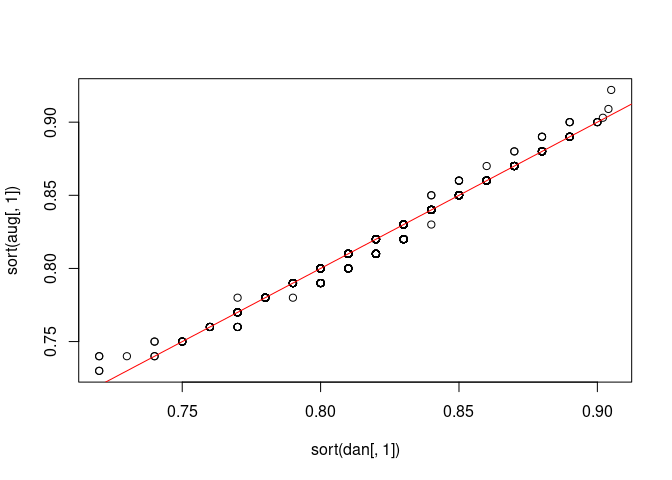
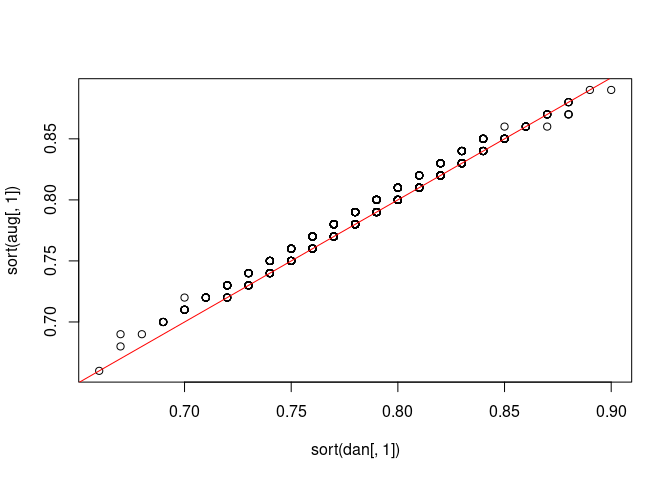
maj compare.Rmd

diff --git a/compare.md b/compare.md
@@ -51,9 +51,9 @@ system.time(plyr::r_ply(100,draw_conditional_posterior_R2_q(m,Y,U,X,sigma2,phi,b
 ```
 
     FALSE            Daniel Augustin
-    FALSE user.self   1.198   20.450
-    FALSE sys.self    0.031    0.000
-    FALSE elapsed     1.230   20.451
+    FALSE user.self   1.211   19.684
+    FALSE sys.self    0.072    0.024
+    FALSE elapsed     1.283   19.711
     FALSE user.child  0.000    0.000
     FALSE sys.child   0.000    0.000
 
@@ -111,15 +111,15 @@ cbind(q=q,r2=r2,Daniel=loglikelihood_r2_q_cond_y_u_x_theta_z_a_b_aa_bb(r2,q,sigm
   summary(alllogprobs$Daniel[alllogprobs$Augustin==-Inf])
 ```
 
-    FALSE       Min.    1st Qu.     Median       Mean    3rd Qu.       Max. 
-    FALSE -1757327.2    -2236.4    -1253.0   -19964.0     -906.3     -712.3
+    FALSE      Min.   1st Qu.    Median      Mean   3rd Qu.      Max. 
+    FALSE -675986.2   -2800.8   -1571.0  -12814.7   -1067.0    -722.7
 
 ``` r
   summary(alllogprobs$Daniel[alllogprobs$Augustin!=-Inf])
 ```
 
     FALSE    Min. 1st Qu.  Median    Mean 3rd Qu.    Max. 
-    FALSE  -708.6  -321.4  -226.8  -276.5  -182.2  -152.1
+    FALSE  -702.7  -280.2  -207.3  -246.9  -171.2  -146.0
 
 ``` r
     alllogprobs|>
@@ -166,9 +166,9 @@ dan=sample_zi_cond_zj_y_u_x_phi_gamma(z,i=1,tilde_y,ttildeytildey,xx,q,tt,k,gamm
 mean(aug);mean(dan)
 ```
 
-    FALSE [1] 0.305
+    FALSE [1] 0.496
 
-    FALSE [1] 0.296
+    FALSE [1] 0.468
 
 ``` r
 cbind("Daniel"=
@@ -178,9 +178,9 @@ system.time(plyr::r_ply(100,sample_conditional_posterior_zi(Y,U,X,sigma2,phi,gam
 ```
 
     FALSE            Daniel Augustin
-    FALSE user.self   0.213    0.251
+    FALSE user.self   0.205    0.243
     FALSE sys.self    0.000    0.000
-    FALSE elapsed     0.214    0.251
+    FALSE elapsed     0.205    0.244
     FALSE user.child  0.000    0.000
     FALSE sys.child   0.000    0.000
 
@@ -236,9 +236,9 @@ system.time(plyr::r_ply(100,sample_conditional_posterior_z(Y,U,X,phi,R2,q,z))))
 ```
 
     FALSE            Daniel Augustin
-    FALSE user.self  12.681   16.000
-    FALSE sys.self    0.000    0.000
-    FALSE elapsed    12.681   16.001
+    FALSE user.self  11.555   15.636
+    FALSE sys.self    0.000    0.004
+    FALSE elapsed    11.554   15.640
     FALSE user.child  0.000    0.000
     FALSE sys.child   0.000    0.000
 
@@ -331,9 +331,9 @@ system.time(plyr::r_ply(100,sample_conditional_posterior_sigma2(Y,U,X,phi,R2, q,
 ```
 
     FALSE            Daniel Augustin
-    FALSE user.self   0.009    0.277
+    FALSE user.self   0.008    0.264
     FALSE sys.self    0.000    0.000
-    FALSE elapsed     0.009    0.276
+    FALSE elapsed     0.009    0.264
     FALSE user.child  0.000    0.000
     FALSE sys.child   0.000    0.000
 
@@ -441,3 +441,58 @@ plot(aug[,1]|>sort(),dan[,1]|>sort());abline(0,1,col='red')
 ![](compare_files/figure-gfm/unnamed-chunk-7-2.png)<!-- -->
 
 ### Test gibbs one step.
+
+``` r
+init_A<-init_betasigma2(X = xx,Y = y)
+init_D<-initial_values_f(y = y,x = xx)
+
+plot(init_A$beta,init_D$beta);abline(0,1,col="red")
+```
+
+![](compare_files/figure-gfm/unnamed-chunk-8-1.png)<!-- -->
+
+``` r
+init_A$sigma2
+```
+
+    FALSE [1] 30.91767
+
+``` r
+init_D$sigma_epsilon^2
+```
+
+    FALSE [1] 29.57529
+
+``` r
+system.time({Daniel<-
+Gibbs_q(x = xx,
+        y = y,
+        u = u,
+        barvx = barvx,
+        tt = tt,k = k,phi = phi,r2_q_grid = r2_q_grid,a=a,
+        b=b,
+        aa=aa,
+        bb=bb,
+        nrep=100,
+        burning=0)|>sort()})
+```
+
+    FALSE    user  system elapsed 
+    FALSE   6.158   0.080   6.239
+
+``` r
+system.time({Augustin<-Gibbs(N=100,a=a,A=aa,b=b,B=bb,k=k,U=0,phi=0,X=xx,Y=y)$q|>sort()})
+```
+
+    FALSE [1] 50
+    FALSE [1] 100
+
+    FALSE    user  system elapsed 
+    FALSE  26.455   0.040  26.496
+
+``` r
+cbind(Daniel=Daniel,Augustin=Augustin)|>
+  plot();abline(0,1,color="red")
+```
+
+![](compare_files/figure-gfm/unnamed-chunk-8-2.png)<!-- -->
